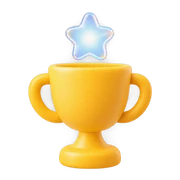
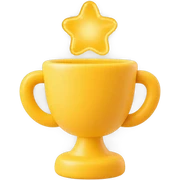
트로피 · 고객센터 아이콘 키우기 — 트로피 별은 진한 금색
떠 있는 배너 트로피 44 → 56px, 고객센터 카카오 · 이용권 아이콘 34 → 40px.
고객센터 상자는 폭 210 안에서 글자가 한 줄로 남게 아이콘 옆 간격을 8 로 좁혔다.
트로피 위 별은 파란 유리에서 진한 금색으로(모양 · 빛은 그대로, 색만).

Changed region(s): [[0.0833, 0.0, 0.9167, 1.0]]

diff --git a/src/features/korhrd/components/support/VoucherPayButton.tsx b/src/features/korhrd/components/support/VoucherPayButton.tsx
@@ -20,7 +20,7 @@ export default function VoucherPayButton({ member }: VoucherPayFormProps) {
         onClick={() => setOpen(true)}
         style={{
           display: 'flex', alignItems: 'center', justifyContent: 'space-between',
-          gap: 12, width: '100%', padding: 16,
+          gap: 8, width: '100%', padding: 16,
           background: '#EBF3FE', color: '#191F28',
           border: 'none', borderRadius: 10, cursor: 'pointer',
           textAlign: 'left',
@@ -34,7 +34,7 @@ export default function VoucherPayButton({ member }: VoucherPayFormProps) {
           src="/voucher-banner-icon.webp"
           alt=""
           aria-hidden="true"
-          style={{ display: 'block', width: 34, height: 34, objectFit: 'contain', flexShrink: 0 }}
+          style={{ display: 'block', width: 40, height: 40, objectFit: 'contain', flexShrink: 0 }}
         />
       </button>
 

diff --git a/public/korhrd/css/course.css b/public/korhrd/css/course.css
@@ -399,9 +399,10 @@
 .kakao-box:not(.kakao-box--sm) .kakao-box__ico{ align-self:flex-end; width:52px; height:52px }
 
 /* 좁은 사이드바(210px)용 축소 변형 */
-.kakao-box--sm{ padding:16px; gap:var(--s-4)}
+/* 아이콘은 210px 안에서 글자가 한 줄로 남는 크기(40) — 그만큼 사이를 8 로 좁힙니다 */
+.kakao-box--sm{ padding:16px; gap:var(--s-3)}
 .kakao-box--sm .kakao-box__t{ font-size:var(--fs-md) }
-.kakao-box--sm .kakao-box__ico{ width:34px; height:34px }
+.kakao-box--sm .kakao-box__ico{ width:40px; height:40px }
 
 /* --------------------------------------------------------------------------
    18. 신뢰 밴드

diff --git a/src/features/korhrd/components/ui/FloatingBanner.module.css b/src/features/korhrd/components/ui/FloatingBanner.module.css
@@ -58,11 +58,12 @@
   }
 }
 
-/* 시안은 이미지 60 · 글자 18px 인데 사이트 본문 눈금(--fs-sm 14px)에 맞춰
-   한 단계 줄였습니다. 화면 가장자리에 붙는 보조 안내라 본문보다 크면 튑니다. */
+/* 시안은 이미지 60 · 글자 18px 인데 글자는 사이트 본문 눈금(--fs-sm 14px)에 맞춰
+   한 단계 줄였습니다. 화면 가장자리에 붙는 보조 안내라 본문보다 크면 튑니다.
+   이미지는 3D 트로피라 작으면 뭉개져 56px 로 둡니다. */
 .image {
-  width: 44px;
-  height: 44px;
+  width: 56px;
+  height: 56px;
   object-fit: cover;
 }
 

diff --git a/src/features/korhrd/components/ui/FloatingBanner.tsx b/src/features/korhrd/components/ui/FloatingBanner.tsx
@@ -24,7 +24,7 @@ export default function FloatingBanner({ href = '/courses' }: {
     <>
       <Image
         className={styles.image} src="/floating-trophy.webp" alt=""
-        width={44} height={44}
+        width={56} height={56}
       />
       <span className={styles.text}>
         2026년<br />최신강의<br />업데이트 중!
